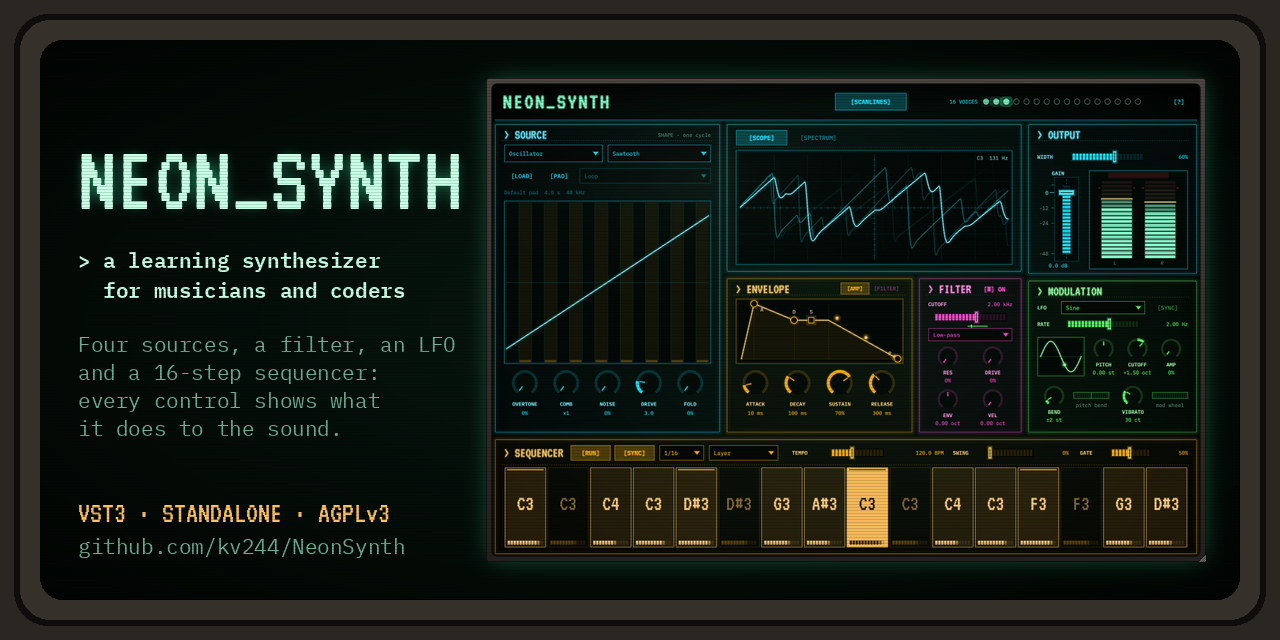
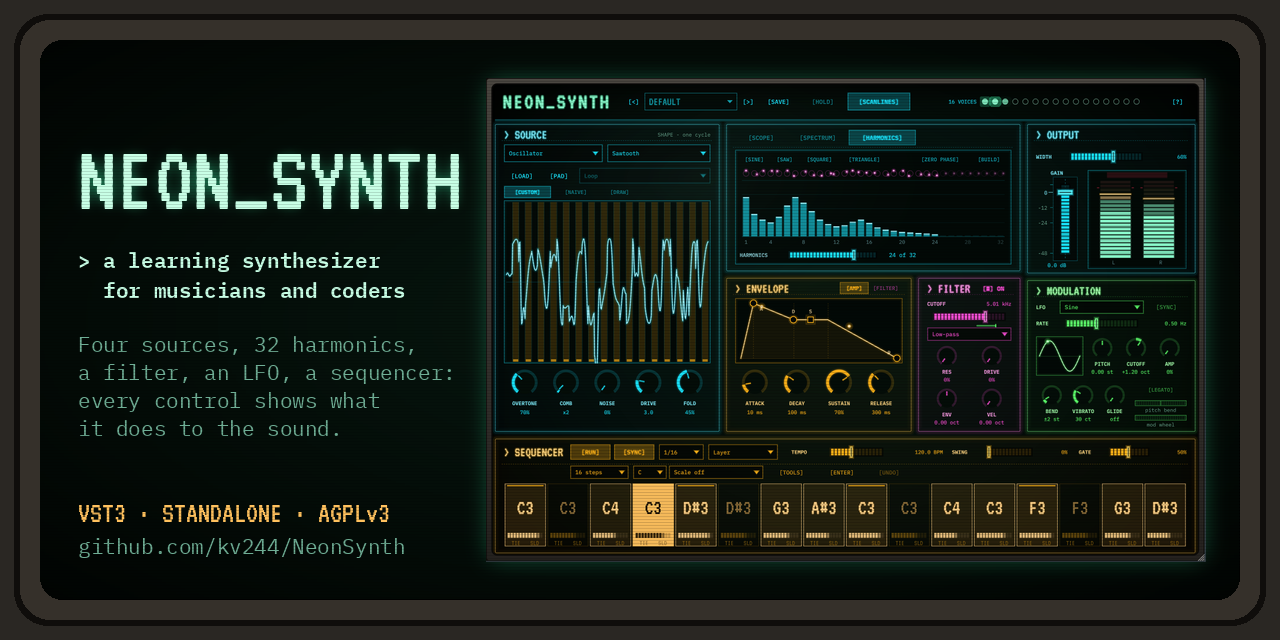
Social preview redrawn from the v1.12.0 README capture (CUSTOM wave, HARMONICS view)
Upload docs/images/social-preview.png under Settings -> General -> Social preview.

Claude-Session: https://claude.ai/code/session_01WdvJbMWXfTwbxS2MtiCyAB

Changed region(s): [[0.375, 0.1562, 0.9375, 0.875], [0.0625, 0.5312, 0.3438, 0.5938], [0.5, 0.125, 0.5312, 0.1875]]

diff --git a/docs/figures/social_preview.py b/docs/figures/social_preview.py
@@ -6,7 +6,7 @@
 GitHub shows it when the repository is linked on social sites and chat apps. It is not set
 from the repository: upload it under Settings -> General -> Social preview after a change.
 It carries no version number, so it does not go stale with each release; redraw it when the
-look changes (it uses the Oscillator capture, docs/images/captures/ui-oscillator-running.png).
+look changes (it uses the README's capture, docs/images/captures/ui-readme.png, from v1.12.0).
 
     python docs/figures/social_preview.py
 """
@@ -55,7 +55,7 @@ def main():
     img.paste(tube, (0, 0), mask)
 
     # The window itself, on the right, with a faint phosphor halo around it.
-    shot = Image.open(ROOT / "docs/images/captures/ui-oscillator-running.png").convert("RGBA")
+    shot = Image.open(ROOT / "docs/images/captures/ui-readme.png").convert("RGBA")
     sw = 720
     shot = shot.resize((sw, round(shot.height * sw / shot.width)), Image.LANCZOS)
     sx, sy = W - 40 - 34 - sw, (H - shot.height) // 2
@@ -71,7 +71,7 @@ def main():
     plex, plexBold = font("IBMPlexMono-Regular.ttf", 21), font("IBMPlexMono-SemiBold.ttf", 21)
     d.text((x, 246), "> a learning synthesizer", font=plexBold, fill=PHOSPHOR)
     d.text((x, 276), "  for musicians and coders", font=plexBold, fill=PHOSPHOR)
-    for i, line in enumerate(["Four sources, a filter, an LFO", "and a 16-step sequencer:",
+    for i, line in enumerate(["Four sources, 32 harmonics,", "a filter, an LFO, a sequencer:",
                               "every control shows what", "it does to the sound."]):
         d.text((x, 330 + 28 * i), line, font=plex, fill=PHOSPHOR_DIM)
     d.text((x, 498), "VST3 · STANDALONE · AGPLv3", font=font("VT323-Regular.ttf", 30), fill=AMBER)
